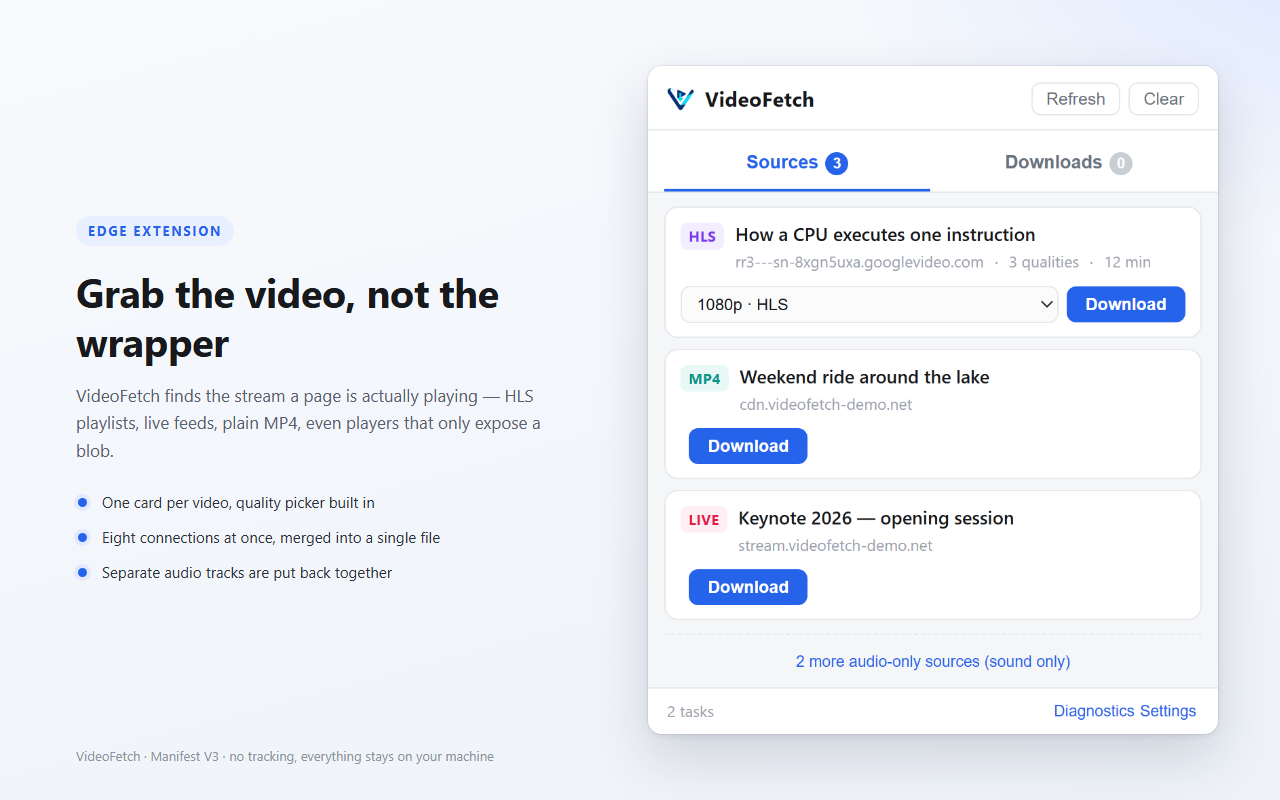
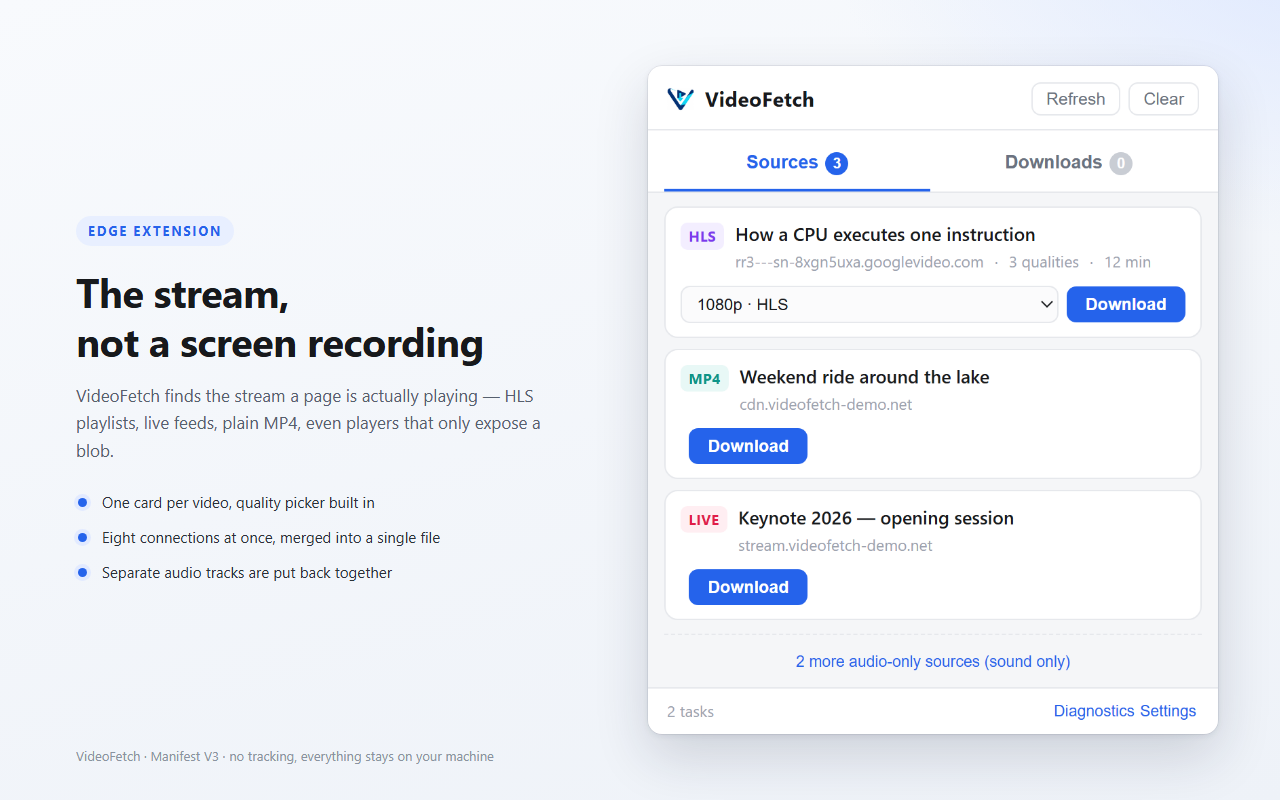
store: replace the screenshot-1 headline
"Grab the video, not the wrapper" used "wrapper" in a sense that does
not exist, and "grab" set the wrong tone. The headline now names what
the extension avoids: a re-recorded capture rather than the source
stream.

frame.html also accepts a manual line break in the headline, so the
phrase breaks at the comma instead of after "screen".

Changed region(s): [[0.0625, 0.3438, 0.4062, 0.4688]]

diff --git a/_shots/frame.html b/_shots/frame.html
@@ -104,7 +104,12 @@
     const q = new URLSearchParams(location.search);
     const put = (id, v) => { if (v) document.getElementById(id).textContent = v; };
     put('eyebrow', q.get('eyebrow'));
-    put('title', q.get('t'));
+    // 标题里的 \n 是手工断行：免得浏览器按字宽把短语劈成「…screen / recording」
+    const title = q.get('t');
+    if (title) {
+      const esc = (s) => s.replace(/[&<>]/g, (c) => ({ '&': '&amp;', '<': '&lt;', '>': '&gt;' })[c]);
+      document.getElementById('title').innerHTML = title.split('\n').map(esc).join('<br>');
+    }
     put('desc', q.get('d'));
     put('foot', q.get('foot'));
     document.getElementById('img').src = q.get('img');

diff --git a/_dev/make-store-art.py b/_dev/make-store-art.py
@@ -174,7 +174,7 @@ FRAMES = [
         file='screenshot-1-sources-en.png',
         img='sources-en.png',
         eyebrow='Edge extension',
-        t='Grab the video, not the wrapper',
+        t='The stream,\nnot a screen recording',
         d='VideoFetch finds the stream a page is actually playing — HLS playlists, live feeds, plain MP4, even players that only expose a blob.',
         b='One card per video, quality picker built in|Eight connections at once, merged into a single file|Separate audio tracks are put back together',
         foot='VideoFetch · Manifest V3 · no tracking, everything stays on your machine',
